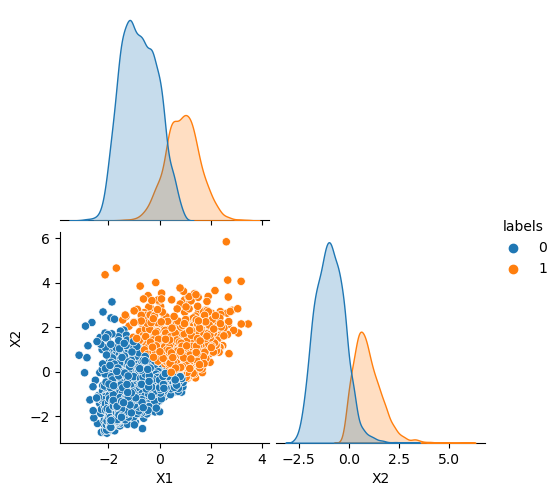
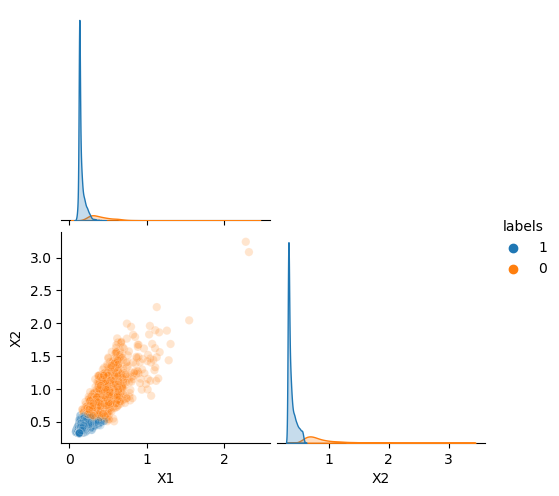
additional FCN

diff --git a/modelLib.py b/modelLib.py
@@ -51,17 +51,27 @@ class autoencoder(nn.Module):
         super().__init__()
         self.down1 = encodeBlock(1,5) # 1x64x64 > 5x16x16
         self.down2 = encodeBlock(5,7) # 5x16x16 > 7x4x4
-        self.down3 = encodeBlock(7,2,last=True) # 7x4x4 > 2x1x1
-        self.up1 = decodeBlock(2,7) 
+        self.down3 = encodeBlock(7,7) # 7x4x4 > 7x1x1
+        self.lin1 = nn.Linear(7,5)
+        self.lin2 = nn.Linear(5,2)
+        self.lin3 = nn.Linear(2,5)
+        self.lin4 = nn.Linear(5,7)
+        self.up1 = decodeBlock(7,7) 
         self.up2 = decodeBlock(7,5) 
         self.up3 = decodeBlock(5,1) 
+        self.relu = nn.ReLU()
 
     def forward(self,x):
         x = self.down1(x)
         x = self.down2(x)
         x = self.down3(x)
         
-        ls = x.flatten()
+        x = x.reshape((-1,7))
+        x = self.relu(self.lin1(x))
+        ls = self.lin2(x)
+        x = self.relu(self.lin3(ls))
+        x = self.relu(self.lin4(x))
+        x = x.reshape((-1,7,1,1))
 
         x = self.up1(x)
         x = self.up2(x)

diff --git a/classify.py b/classify.py
@@ -13,5 +13,5 @@ df["labels"] = [str(i) for i in clustering.labels_]
 
 df.to_csv(os.path.join(RESULTSDIR,"labeledData.csv"))
 
-plt = sns.pairplot(df,corner=True,hue="labels")
+plt = sns.pairplot(df,corner=True,hue="labels",plot_kws={"alpha":0.2})
 plt.savefig(os.path.join(RESULTSDIR,"clustersLatentSpace.png"))

diff --git a/predictAutoencoder.py b/predictAutoencoder.py
@@ -31,6 +31,7 @@ def assessAE(chkptFile):
     X2 = []
     for f in dataset.files:
         ls = predict.reduce(os.path.join(DATADIR,f))
+        ls = ls.flatten()
         X1.append(ls[0].item())
         X2.append(ls[1].item())
 
